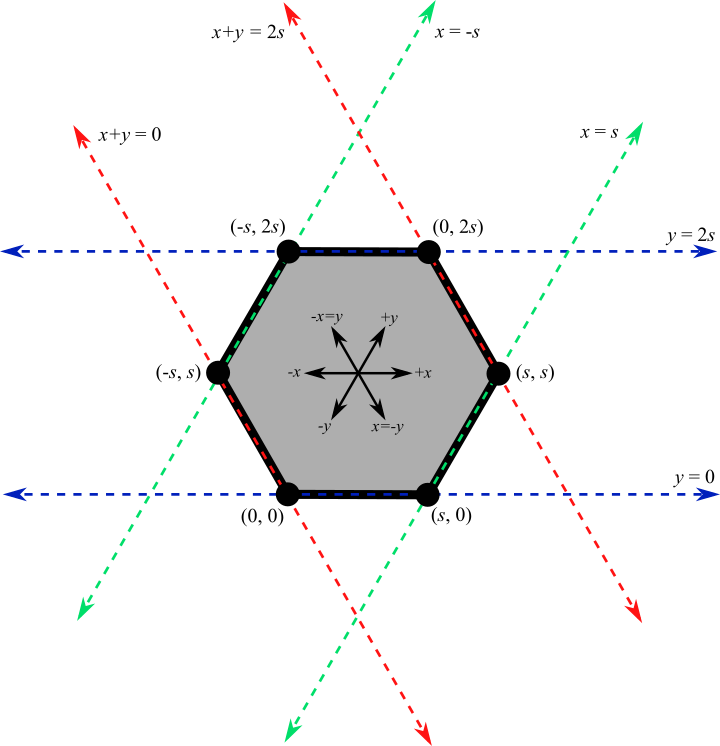
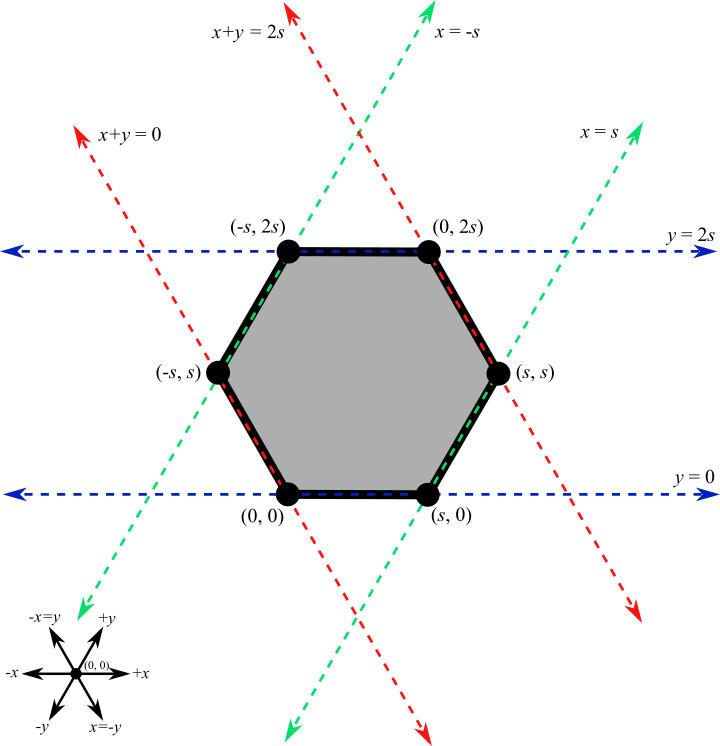
~ Minor polishing in Disco.
~ Moved the compass in wiki/tutorials/discoboundary.* to the bottom-left to avoid confusion.

Changed region(s): [[0.0306, 0.8016, 0.2139, 0.9866], [0.4278, 0.4316, 0.6111, 0.5858], [0.5194, 0.4316, 0.55, 0.4625]]

diff --git a/alg/demo/discodemo.cpp b/alg/demo/discodemo.cpp
@@ -26,7 +26,7 @@ void DiscoDemoParticle::activate() {
   // Next, handle movement. If the particle is contracted, choose a random
   // direction to try to expand towards, but only do so if the node in that
   // direction is unoccupied. Otherwise, if the particle is expanded, simply
-  // contract.
+  // contract its tail.
   if (isContracted()) {
     int expandDir = randDir();
     if (canExpand(expandDir)) {

diff --git a/alg/demo/discodemo.h b/alg/demo/discodemo.h
@@ -9,7 +9,7 @@
 // available in the wiki:
 // [https://bitbucket.org/gmyr/amoebotsim/wiki/Code%20Tutorials].
 //
-// Run on the simulator command line using discodemo(#particles, counter max).
+// Run on the simulator command line using discodemo(# particles, counter max).
 
 #ifndef AMOEBOTSIM_ALG_DEMO_DISCODEMO_H_
 #define AMOEBOTSIM_ALG_DEMO_DISCODEMO_H_
